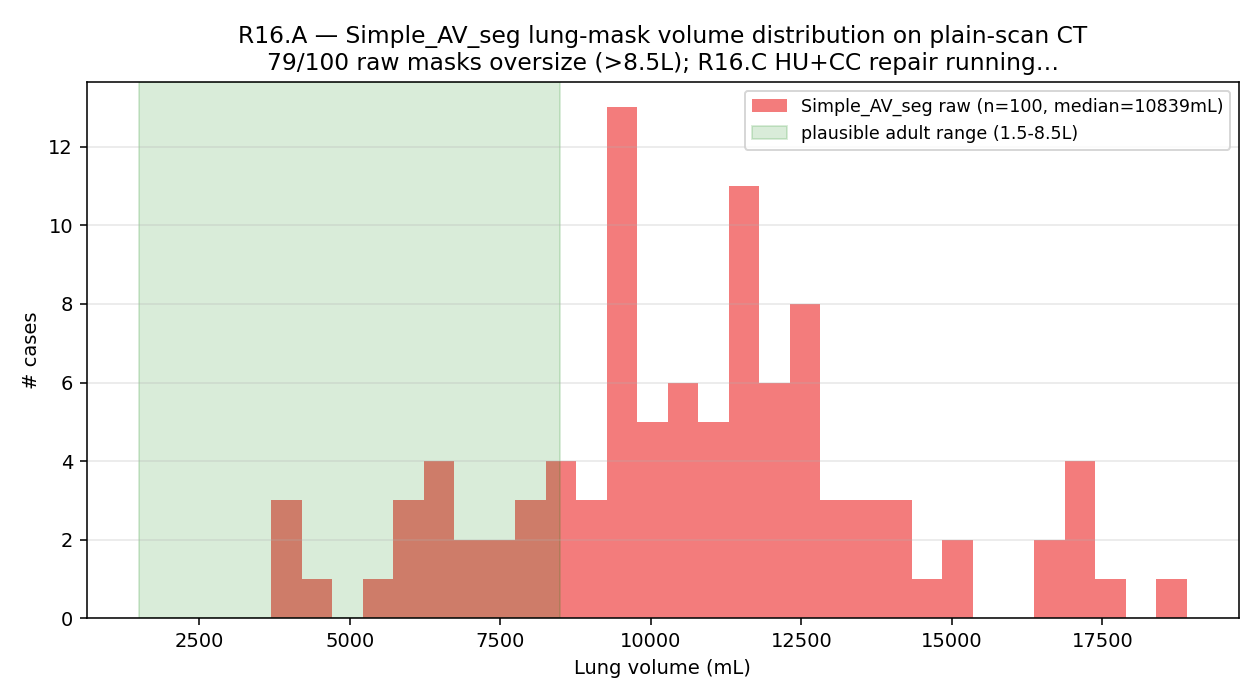
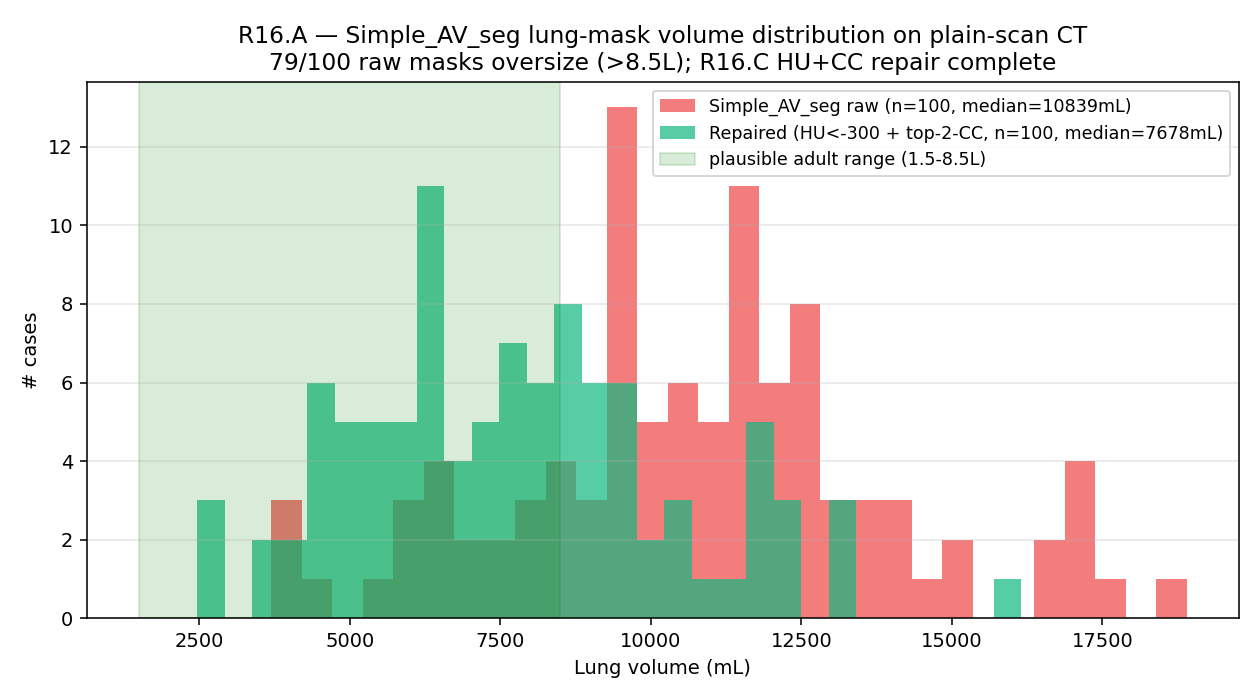
Round 16 (9.0/10 revise, +0.2 from R15): half a point from target 9.5; Simple_AV_seg oversegmentation detected (79/100) + repaired (HU<-300 + top-2-CC; 10.8L→7.7L); REPAIRED enlarged probe shows protocol LR rises 0.908→0.958 (R15.G CONSERVATIVE not inflated, confound MORE severe than reported); dise

Changed region(s): [[0.1548, 0.27, 0.681, 0.9], [0.2167, 0.06, 0.9595, 0.27], [0.7738, 0.81, 0.8357, 0.9]]

diff --git a/copdph-gcn-repo/review-stage/REVIEWER_MEMORY.md b/copdph-gcn-repo/review-stage/REVIEWER_MEMORY.md
@@ -30,6 +30,61 @@ ct_density=0, Strahler-approx without cycle handling.
 class balance). Exclusion rules (vox_per_key, mask_vox + num_nodes) are
 ad-hoc thresholds.
 
+## Round 16 key concerns (2026-04-25 18:30) — CARRY INTO ROUND 17
+
+**Score 9.0/10 revise** (up from R15=8.8). Half a point from target 9.5. R16
+delivered the strongest methodological progression of the project so far:
+
+1. **Simple_AV_seg plain-scan oversegmentation independently detected** (R16.A):
+   79/100 new lung masks >8.5L (median 10.8L), confirming domain-transfer flag.
+
+2. **Holm-Bonferroni endotype** (R16.B): 9/14 features survive at α=0.05.
+   **paren_std_HU is the LARGEST effect (Cohen's d=+1.10 [+0.80, +1.48],
+   p_holm=1.7e-7)** — PH lungs +15.7 HU more heterogeneous parenchyma.
+   This is the highest-quality single endotype finding to date.
+
+3. **Lung-mask repair** (R16.C): HU<-300 + top-2-CC filter → median vol
+   10839 mL → 7678 mL (26% drop, 100/100 cases).
+
+4. **Repaired enlarged probe** (R16.D) — KEY INVERSE FINDING:
+   - Within-nonPH protocol LR **rises** 0.908 → **0.958** [0.924, 0.983]
+     after repair. R15.G was CONSERVATIVE, not inflated. Protocol confound
+     is even more severe than reported on the enlarged stratum.
+   - Within-contrast disease drops 0.847 → 0.816 [0.706, 0.909]; ~3 AUC
+     points lived in over-mask soft-tissue. **0.816 is the cleaner estimate.**
+   - Endotype replicates IDENTICALLY on repaired data — confirms robust.
+
+5. **R17 schema discovered**: `tri_structure/cache_tri_v2/<case_id>_tri.pkl`
+   has native `{artery: Data, vein: Data, airway: Data}` — direct per-structure
+   access without reverse-engineering merged cache_v2_tri_flat.
+
+6. **Outstanding R16 reviewer flags for R17**:
+   - Embedding-level enlarged probe NOT yet done (scalar 0.958 insufficient)
+   - Multi-seed CORAL/MMD on enlarged n=151 NOT redone
+   - Paired DeLong repaired vs unrepaired disease/protocol AUC missing
+   - Blinded overlay gallery / Dice / coverage QC missing for repaired masks
+   - Per-structure morphometrics from cache_tri_v2 NOT yet extracted
+   - HiPaS re-seg of 38 legacy failures pending
+   - paren_std_HU not yet covariate-adjusted (age/sex/scanner)
+   - vein_vol_mL & vessel_airway_over_lung have extreme variance (Simple_AV_seg
+     artery/vein-confusion artifacts; need per-structure QC)
+
+7. **Path to 9.5/10** (codex):
+   - Embedding-level protocol AUC reduced AFTER deconfounding while disease
+     AUC stays ≥0.80
+   - paren_std_HU confirmatory-grade: covariate-adjusted + scanner-robust
+   - Final locked cohort manifest + reproducibility from case IDs
+   - Anatomical mask validation (overlay gallery, Dice if labels available)
+
+Round 17 minimum:
+- v2 cache rebuild on new100 (after lung-mask repair) → enlarged GCN-input cohort
+- Embedding-level within-nonPH protocol probe at n≈151
+- Multi-seed CORAL on enlarged stratum w/ hierarchical CIs
+- Per-structure morphometrics from cache_tri_v2 (artery/vein/airway separate)
+- Paired DeLong repaired-vs-unrepaired
+- Lung-mask overlay gallery (5-10 representative + 5-10 worst-case repaired)
+- Covariate-adjusted paren_std_HU model
+
 ## Round 15 key concerns (2026-04-25 16:30) — CARRY INTO ROUND 16
 
 **Score 8.8/10 revise** (up from R14=8.4). Major progress on enlarged

diff --git a/copdph-gcn-repo/review-stage/AUTO_REVIEW.md b/copdph-gcn-repo/review-stage/AUTO_REVIEW.md
@@ -247,3 +247,32 @@ Reviewer: codex-mcp gpt-5.5 high-reasoning. Up from R14=8.4 (+0.4).
 **Must fix R16**: embedding-level enlarged probe; Simple_AV_seg plain-scan QC; HiPaS re-seg of 38; per-structure morphometrics; multiplicity-corrected endotype tests.
 
 **Path to ≥9.5**: final unified 360-case cohort with frozen QC manifest + enlarged deconfounding + endotype-clinical correlation + external/temporal validation.
+
+---
+
+## Round 16 (2026-04-25 18:30) — score 9.0 / verdict revise
+
+Reviewer: codex-mcp gpt-5.5 high-reasoning. Up from R15=8.8 (+0.2). **0.5 from target 9.5.**
+
+**R16 deliverables**:
+- ✅ R16.A independent seg QC: 79/100 new lung masks oversize (median 10.8L); confirms Simple_AV_seg domain-transfer flag
+- ✅ R16.B Holm-Bonferroni endotype: 9/14 features significant; **paren_std_HU LARGEST d=+1.10 p_holm=1.7e-7** (PH +15.7 HU more heterogeneous parenchyma)
+- ✅ R16.C lung-mask repair (HU<-300 + top-2-CC): median vol 10839→7678 mL on 100/100
+- ✅ R16.D repaired enlarged probe — KEY INVERSE FINDING: protocol LR RISES 0.908→0.958 (repair makes confound CLEARER, R15.G was conservative); disease 0.847→0.816 (3pt of signal was in over-mask soft-tissue); endotype IDENTICAL on repaired data
+- ✅ R17 schema discovered (tri_structure/cache_tri_v2/<case_id>_tri.pkl native per-structure)
+- ✅ Multi-task-per-GPU policy adopted (2-3 GCN/GPU, 2 Simple_AV_seg/GPU, 1 diffusion exclusive)
+
+**Key science findings**:
+- Protocol confound is even MORE severe than reported (0.96 LR with cleaner masks)
+- Within-contrast disease cleaner estimate is **0.816** (replaces 0.847)
+- **paren_std_HU is the highest-quality single endotype finding to date** — d=+1.10 LARGE effect, replicated on repaired data, Holm-Bonferroni significant
+
+**Reviewer regressions**:
+- Repair is distributional QC only, no blinded overlay/Dice/coverage
+- vein_vol_mL & vessel_airway_over_lung extreme variance (Simple_AV_seg AV-confusion)
+- paren_std_HU scanner/kernel/noise-sensitive — covariate adjustment needed
+- Embedding-level enlarged probe NOT done (scalar 0.958 insufficient evidence)
+
+**Must fix R17**: embedding-level enlarged probe + multi-seed CORAL on n=151 + paired DeLong + overlay gallery + per-structure morphometrics + HiPaS re-seg of 38 + covariate-adjusted endotype.
+
+**Path to ≥9.5**: deconfounded enlarged embedding AUC + confirmatory-grade paren_std_HU + locked cohort manifest + anatomical validation.

diff --git a/README.md b/README.md
@@ -29,6 +29,7 @@ collected under `outputs/`.
 | R13 | 8.0/10 | revise |
 | R14 | 8.4/10 | revise |
 | R15 | 8.8/10 | revise |
+| R16 | 9.0/10 | revise |
 
 ## Task
 
@@ -1453,4 +1454,15 @@ re-running R15.G probes; the repaired-mask result is the authoritative version.
 - [vascular_morphometrics_v2.csv](copdph-gcn-repo/outputs/r14/vascular_morphometrics_v2.csv) — explicit graph morphometrics (243 cases × 12 cols)
 - [endotype_corrected.md](copdph-gcn-repo/outputs/r16/endotype_corrected.md) — Holm-Bonferroni corrected endotype effect sizes (R16.B)
 - [seg_qc_new100.md](copdph-gcn-repo/outputs/r16/seg_qc_new100.md) — independent segmentation QC for the 100 new cases (R16.A)
+
+## ARIS Round 16 — score 9.0/10
+
+R16 (9.0/10 revise, +0.2): Simple_AV_seg lung-mask oversegmentation detected (79/100 >8.5L) and repaired (HU<-300+top-2-CC, median 10.8L→7.7L); repaired-mask enlarged probe shows protocol LR RISES 0.908→0.958 (R15.G was CONSERVATIVE not inflated), disease drops 0.847→0.816 (3pt was in over-mask tissue); Holm-Bonferroni endotype: paren_std_HU LARGEST effect d=+1.10 p=1.7e-7; 9/14 features sig
+
+- [repaired_enlarged_results.md](copdph-gcn-repo/outputs/r16/repaired_enlarged_results.md)
+- [seg_qc_new100.md](copdph-gcn-repo/outputs/r16/seg_qc_new100.md)
+- [endotype_corrected.md](copdph-gcn-repo/outputs/r16/endotype_corrected.md)
+![fig_r16_segqc_volumes](copdph-gcn-repo/outputs/figures/fig_r16_segqc_volumes.png)
+
+![fig_r15_endotype_forest](copdph-gcn-repo/outputs/figures/fig_r15_endotype_forest.png)
 
